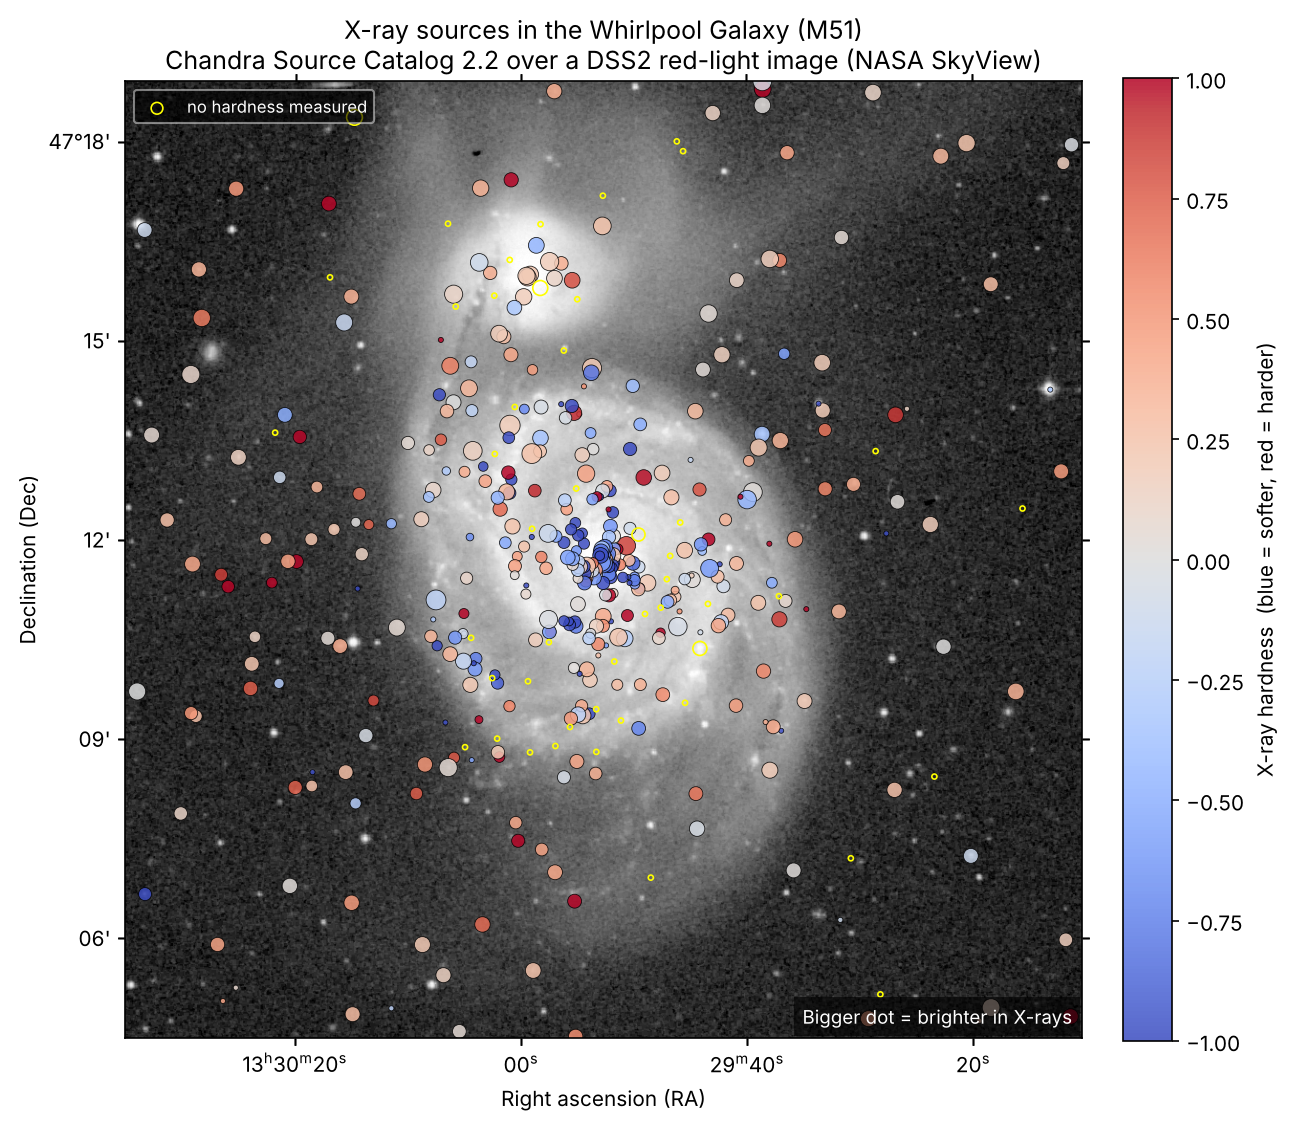
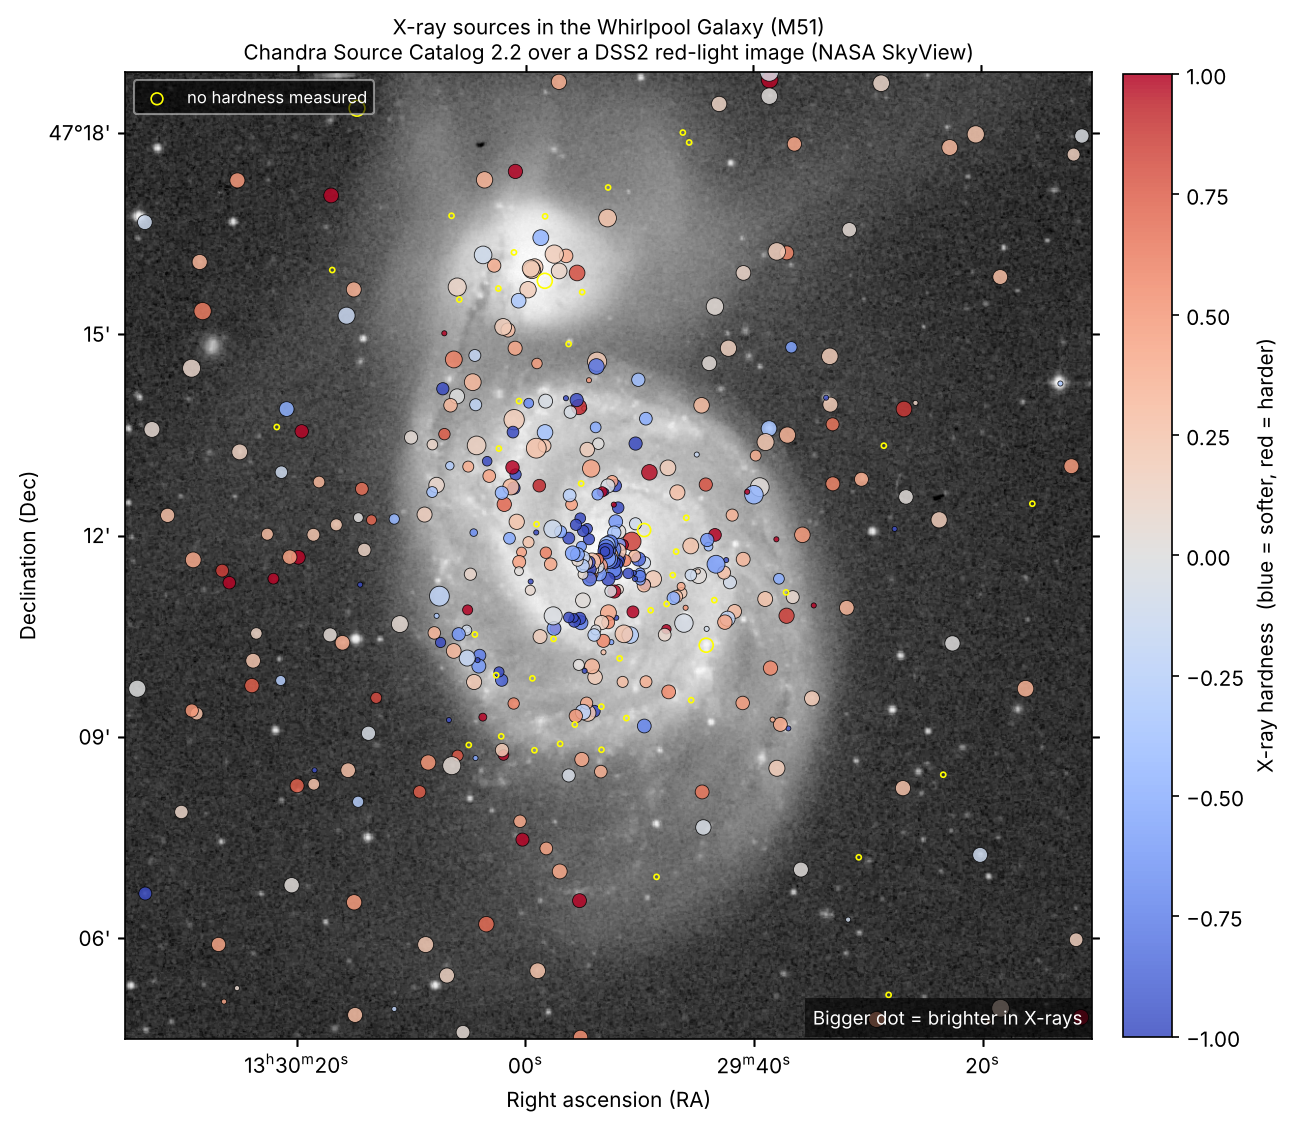
Project 21: general sky-map script; add 47 Tucanae map with core zoom
Rename whirlpool_skymap.py to skymap.py, which takes a target name.
Each target sets its own photo contrast and an optional zoom panel.

Claude-Session: https://claude.ai/code/session_01A7jktab8sGSAQn7jhBsSzU

diff --git a/project21/skymap.py b/project21/skymap.py
@@ -1,0 +1,157 @@
+"""Sky map of Chandra X-ray sources for a chosen target, drawn over a visible-light photo.
+
+Data sources:
+  - X-ray sources: Chandra Source Catalog 2.2, Chandra X-ray Center (CfA), https://cxc.cfa.harvard.edu/csc/
+  - Background photo: Digitized Sky Survey 2 (red light), from NASA's SkyView service,
+    https://skyview.gsfc.nasa.gov/
+
+Run from the repo's top folder, naming a target from the TARGETS list below:
+    python3 project21/skymap.py whirlpool_m51
+    python3 project21/skymap.py 47tuc
+"""
+import os
+import sys
+
+import matplotlib.pyplot as plt
+import numpy as np
+import pandas as pd
+import pyvo
+import requests
+from astropy.io import fits
+from astropy.visualization import AsinhStretch, ImageNormalize, PercentileInterval
+from astropy.wcs import WCS
+
+# --- Targets ----------------------------------------------------------------
+# name:      the title shown on the plot
+# ra, dec:   the centre of the map, in degrees
+# half_size: half-width of the box, in degrees (for scale, the full Moon is about 0.5 degrees across)
+# contrast:  how strongly to squeeze the photo's bright end; smaller = more squeezing.
+#            Use a small value (0.05) for a galaxy on dark sky, a larger one (0.3) for a field full of stars.
+# zoom:      optional half-width, in degrees, of a zoomed-in second panel for a crowded centre (None = no zoom)
+TARGETS = {
+    "whirlpool_m51": dict(name="Whirlpool Galaxy (M51)", ra=202.4696, dec=47.1952,
+                          half_size=0.12, contrast=0.05, zoom=None),
+    "47tuc": dict(name="globular cluster 47 Tucanae", ra=6.0236, dec=-72.0813,
+                  half_size=0.10, contrast=0.3, zoom=0.017),
+}
+IMAGE_PIXELS = 1000  # width and height of the background photo
+
+
+def get_sources(key, ra, dec, half_size):
+    """Download the Chandra sources in a box around (ra, dec), caching them in data/."""
+    catalog_file = f"data/csc22_{key}.csv"
+    if os.path.exists(catalog_file):
+        return pd.read_csv(catalog_file)
+    # Lines of right ascension (RA) bunch together away from the sky's equator,
+    # so the box needs to be wider in RA to cover the same patch of sky.
+    ra_half = half_size / np.cos(np.radians(dec))
+    query = f"""SELECT m.name, m.ra, m.dec, m.significance, m.flux_aper_b, m.hard_hm
+                FROM csc22.master_source m
+                WHERE m.ra BETWEEN {ra - ra_half} AND {ra + ra_half}
+                  AND m.dec BETWEEN {dec - half_size} AND {dec + half_size}"""
+    tap = pyvo.dal.TAPService("https://cda.cfa.harvard.edu/csc22tap")
+    sources = tap.search(query, maxrec=20000).to_table().to_pandas()
+    sources.to_csv(catalog_file, index=False)
+    return sources
+
+
+def get_photo(key, ra, dec, half_size):
+    """Download a DSS2 red-light photo from SkyView (cached in data/). Returns the image and its WCS.
+
+    The FITS file holds the image plus a header (the "WCS") saying which sky position each pixel shows.
+    """
+    photo_file = f"data/dss2red_{key}.fits"
+    if not os.path.exists(photo_file):
+        params = {"Position": f"{ra},{dec}", "Coordinates": "J2000", "Survey": "DSS2 Red",
+                  "Pixels": IMAGE_PIXELS, "Size": 2 * half_size, "Return": "FITS"}
+        r = requests.get("https://skyview.gsfc.nasa.gov/current/cgi/runquery.pl", params=params, timeout=180)
+        r.raise_for_status()
+        with open(photo_file, "wb") as f:
+            f.write(r.content)
+    with fits.open(photo_file) as hdul:
+        return hdul[0].data, WCS(hdul[0].header)
+
+
+def draw_panel(ax, photo, sources, contrast):
+    """Draw the photo and the X-ray dots on one panel. Returns the dots, for the colour bar."""
+    # Bright centres are far brighter than faint outskirts. An "asinh stretch" squeezes the
+    # bright end so both show up at once (like adjusting the contrast on a phone photo).
+    norm = ImageNormalize(photo, interval=PercentileInterval(99.99), stretch=AsinhStretch(contrast))
+    ax.imshow(photo, origin="lower", cmap="gray", norm=norm)
+
+    # Dot size grows with X-ray brightness (on a log scale, since brightness spans 10,000x).
+    # Some very faint sources have a flux of zero or no value at all; they get the smallest size.
+    flux = sources["flux_aper_b"]
+    faintest = flux[flux > 0].min()
+    flux = flux.where(flux > 0, faintest)
+    size = 6 + 22 * (np.log10(flux) - np.log10(faintest))
+
+    # Dot colour shows hardness: blue = softer (lower-energy) X-rays, red = harder (higher-energy).
+    # Sources with no hardness value are drawn as yellow outlines.
+    sky = ax.get_transform("icrs")  # tells matplotlib the dot positions are RA/Dec, not pixels
+    has_hr = sources["hard_hm"].notna()
+    dots = ax.scatter(sources.loc[has_hr, "ra"], sources.loc[has_hr, "dec"], s=size[has_hr],
+                      c=sources.loc[has_hr, "hard_hm"], cmap="coolwarm", vmin=-1, vmax=1, alpha=0.85,
+                      edgecolor="black", linewidth=0.4, transform=sky)
+    ax.scatter(sources.loc[~has_hr, "ra"], sources.loc[~has_hr, "dec"], s=size[~has_hr],
+               facecolor="none", edgecolor="yellow", linewidth=0.8, transform=sky,
+               label="no hardness measured")
+    ax.coords[0].set_axislabel("Right ascension (RA)")
+    ax.coords[1].set_axislabel("Declination (Dec)")
+    return dots
+
+
+def make_skymap(key):
+    t = TARGETS[key]
+    os.makedirs("data", exist_ok=True)
+    os.makedirs("plots", exist_ok=True)
+
+    sources = get_sources(key, t["ra"], t["dec"], t["half_size"])
+    print(len(sources), "X-ray sources in the box around", t["name"])
+    photo, wcs = get_photo(key, t["ra"], t["dec"], t["half_size"])
+
+    zoom = t["zoom"]
+    fig = plt.figure(figsize=(16, 8.5) if zoom else (9, 8.5))
+
+    # Left (or only) panel: the whole field.
+    ax = fig.add_subplot(1, 2 if zoom else 1, 1, projection=wcs)
+    dots = draw_panel(ax, photo, sources, t["contrast"])
+    # Keep the view to the photo's edges (a few catalog sources sit just outside it).
+    ax.set_xlim(-0.5, photo.shape[1] - 0.5)
+    ax.set_ylim(-0.5, photo.shape[0] - 0.5)
+    ax.set_title(f"X-ray sources in the {t['name']}\n"
+                 "Chandra Source Catalog 2.2 over a DSS2 red-light image (NASA SkyView)", fontsize=10)
+    ax.legend(loc="upper left", fontsize=8, facecolor="black", labelcolor="white", framealpha=0.6)
+    ax.text(0.99, 0.01, "Bigger dot = brighter in X-rays", transform=ax.transAxes, ha="right",
+            va="bottom", color="white", fontsize=9,
+            bbox=dict(facecolor="black", alpha=0.6, edgecolor="none"))
+
+    # Right panel: the same picture, zoomed in on the centre.
+    if zoom:
+        # Convert the zoom size from degrees to photo pixels, and centre it on the target.
+        cx, cy = wcs.world_to_pixel_values(t["ra"], t["dec"])
+        half_px = zoom / abs(wcs.wcs.cdelt[1])
+        ax.add_patch(plt.Rectangle((cx - half_px, cy - half_px), 2 * half_px, 2 * half_px,
+                                   fill=False, edgecolor="yellow", linewidth=1.2, linestyle="--"))
+        zax = fig.add_subplot(1, 2, 2, projection=wcs)
+        draw_panel(zax, photo, sources, t["contrast"])
+        zax.set_xlim(cx - half_px, cx + half_px)
+        zax.set_ylim(cy - half_px, cy + half_px)
+        n_in = int(((abs(sources["ra"] - t["ra"]) * np.cos(np.radians(t["dec"])) < zoom)
+                    & (abs(sources["dec"] - t["dec"]) < zoom)).sum())
+        zax.set_title(f"Zoom on the centre (yellow box): {n_in} sources", fontsize=10)
+
+    fig.subplots_adjust(wspace=0.3)  # room between the panels for the axis labels
+    fig.colorbar(dots, ax=fig.axes, fraction=0.025 if zoom else 0.046, pad=0.03,
+                 label="X-ray hardness  (blue = softer, red = harder)")
+
+    out = f"plots/21_{key}_skymap.png"
+    plt.savefig(out, dpi=150, bbox_inches="tight")
+    plt.close(fig)
+    print("Saved", out)
+
+
+if __name__ == "__main__":
+    if len(sys.argv) != 2 or sys.argv[1] not in TARGETS:
+        sys.exit(f"Usage: python3 project21/skymap.py TARGET   (TARGET is one of: {', '.join(TARGETS)})")
+    make_skymap(sys.argv[1])
